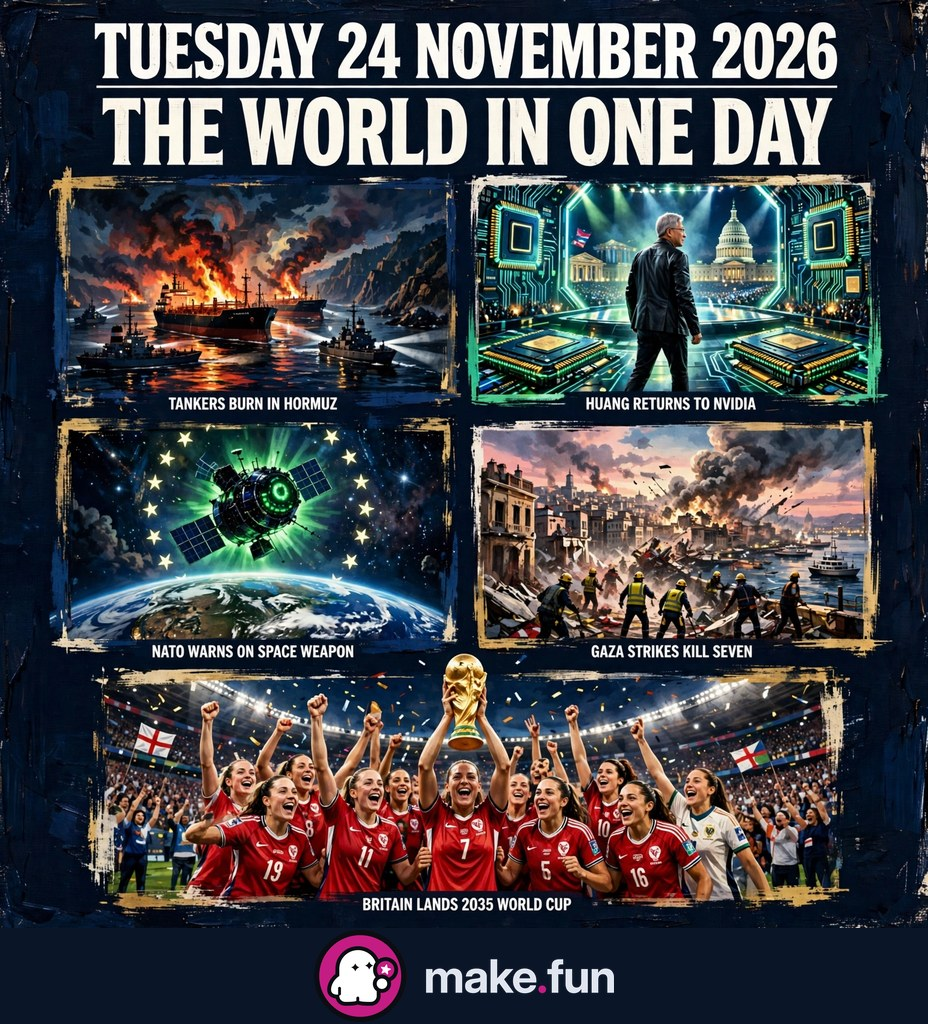
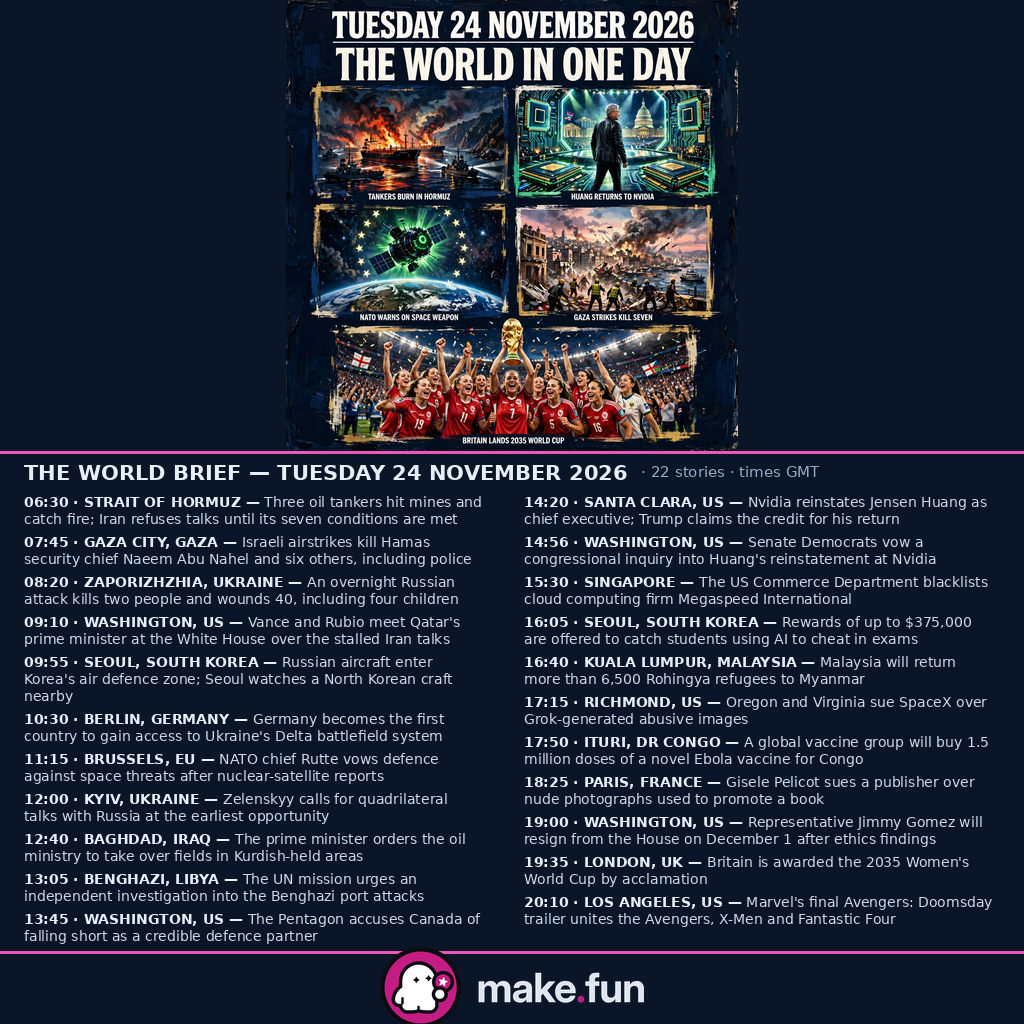
Rebuild as a complete front page: 22-story world brief with datelines and GMT times

diff --git a/README.md b/README.md
@@ -1,6 +1,6 @@
 # The World in One Day — Tuesday 24 November 2026
 
-One image summing up the world news of Tuesday 24 November 2026, made for make.fun's news-image-20261124 bounty. The day's front page, in five panels:
+One image summing up the world news of Tuesday 24 November 2026, made for make.fun's news-image-20261124 bounty. A five-panel editorial collage of the day's biggest stories, over **The World Brief: 22 stories from the day, each with its dateline and the time it moved (GMT)** — the Strait of Hormuz, Gaza City, Zaporizhzhia, Washington, Seoul, Berlin, Brussels, Kyiv, Baghdad, Benghazi, Santa Clara, Singapore, Kuala Lumpur, Richmond, Ituri, Paris, London and Los Angeles. The five panels:
 
 - **Tankers burn in Hormuz** — Iran refuses talks until its conditions are met as three oil tankers hit mines in the Strait of Hormuz and the US naval blockade holds; Vance and Rubio host Qatar's prime minister at the White House.
 - **Huang returns to NVIDIA** — Jensen Huang is reinstated as Nvidia's CEO, with Trump claiming the credit and Senate Democrats vowing an inquiry.
